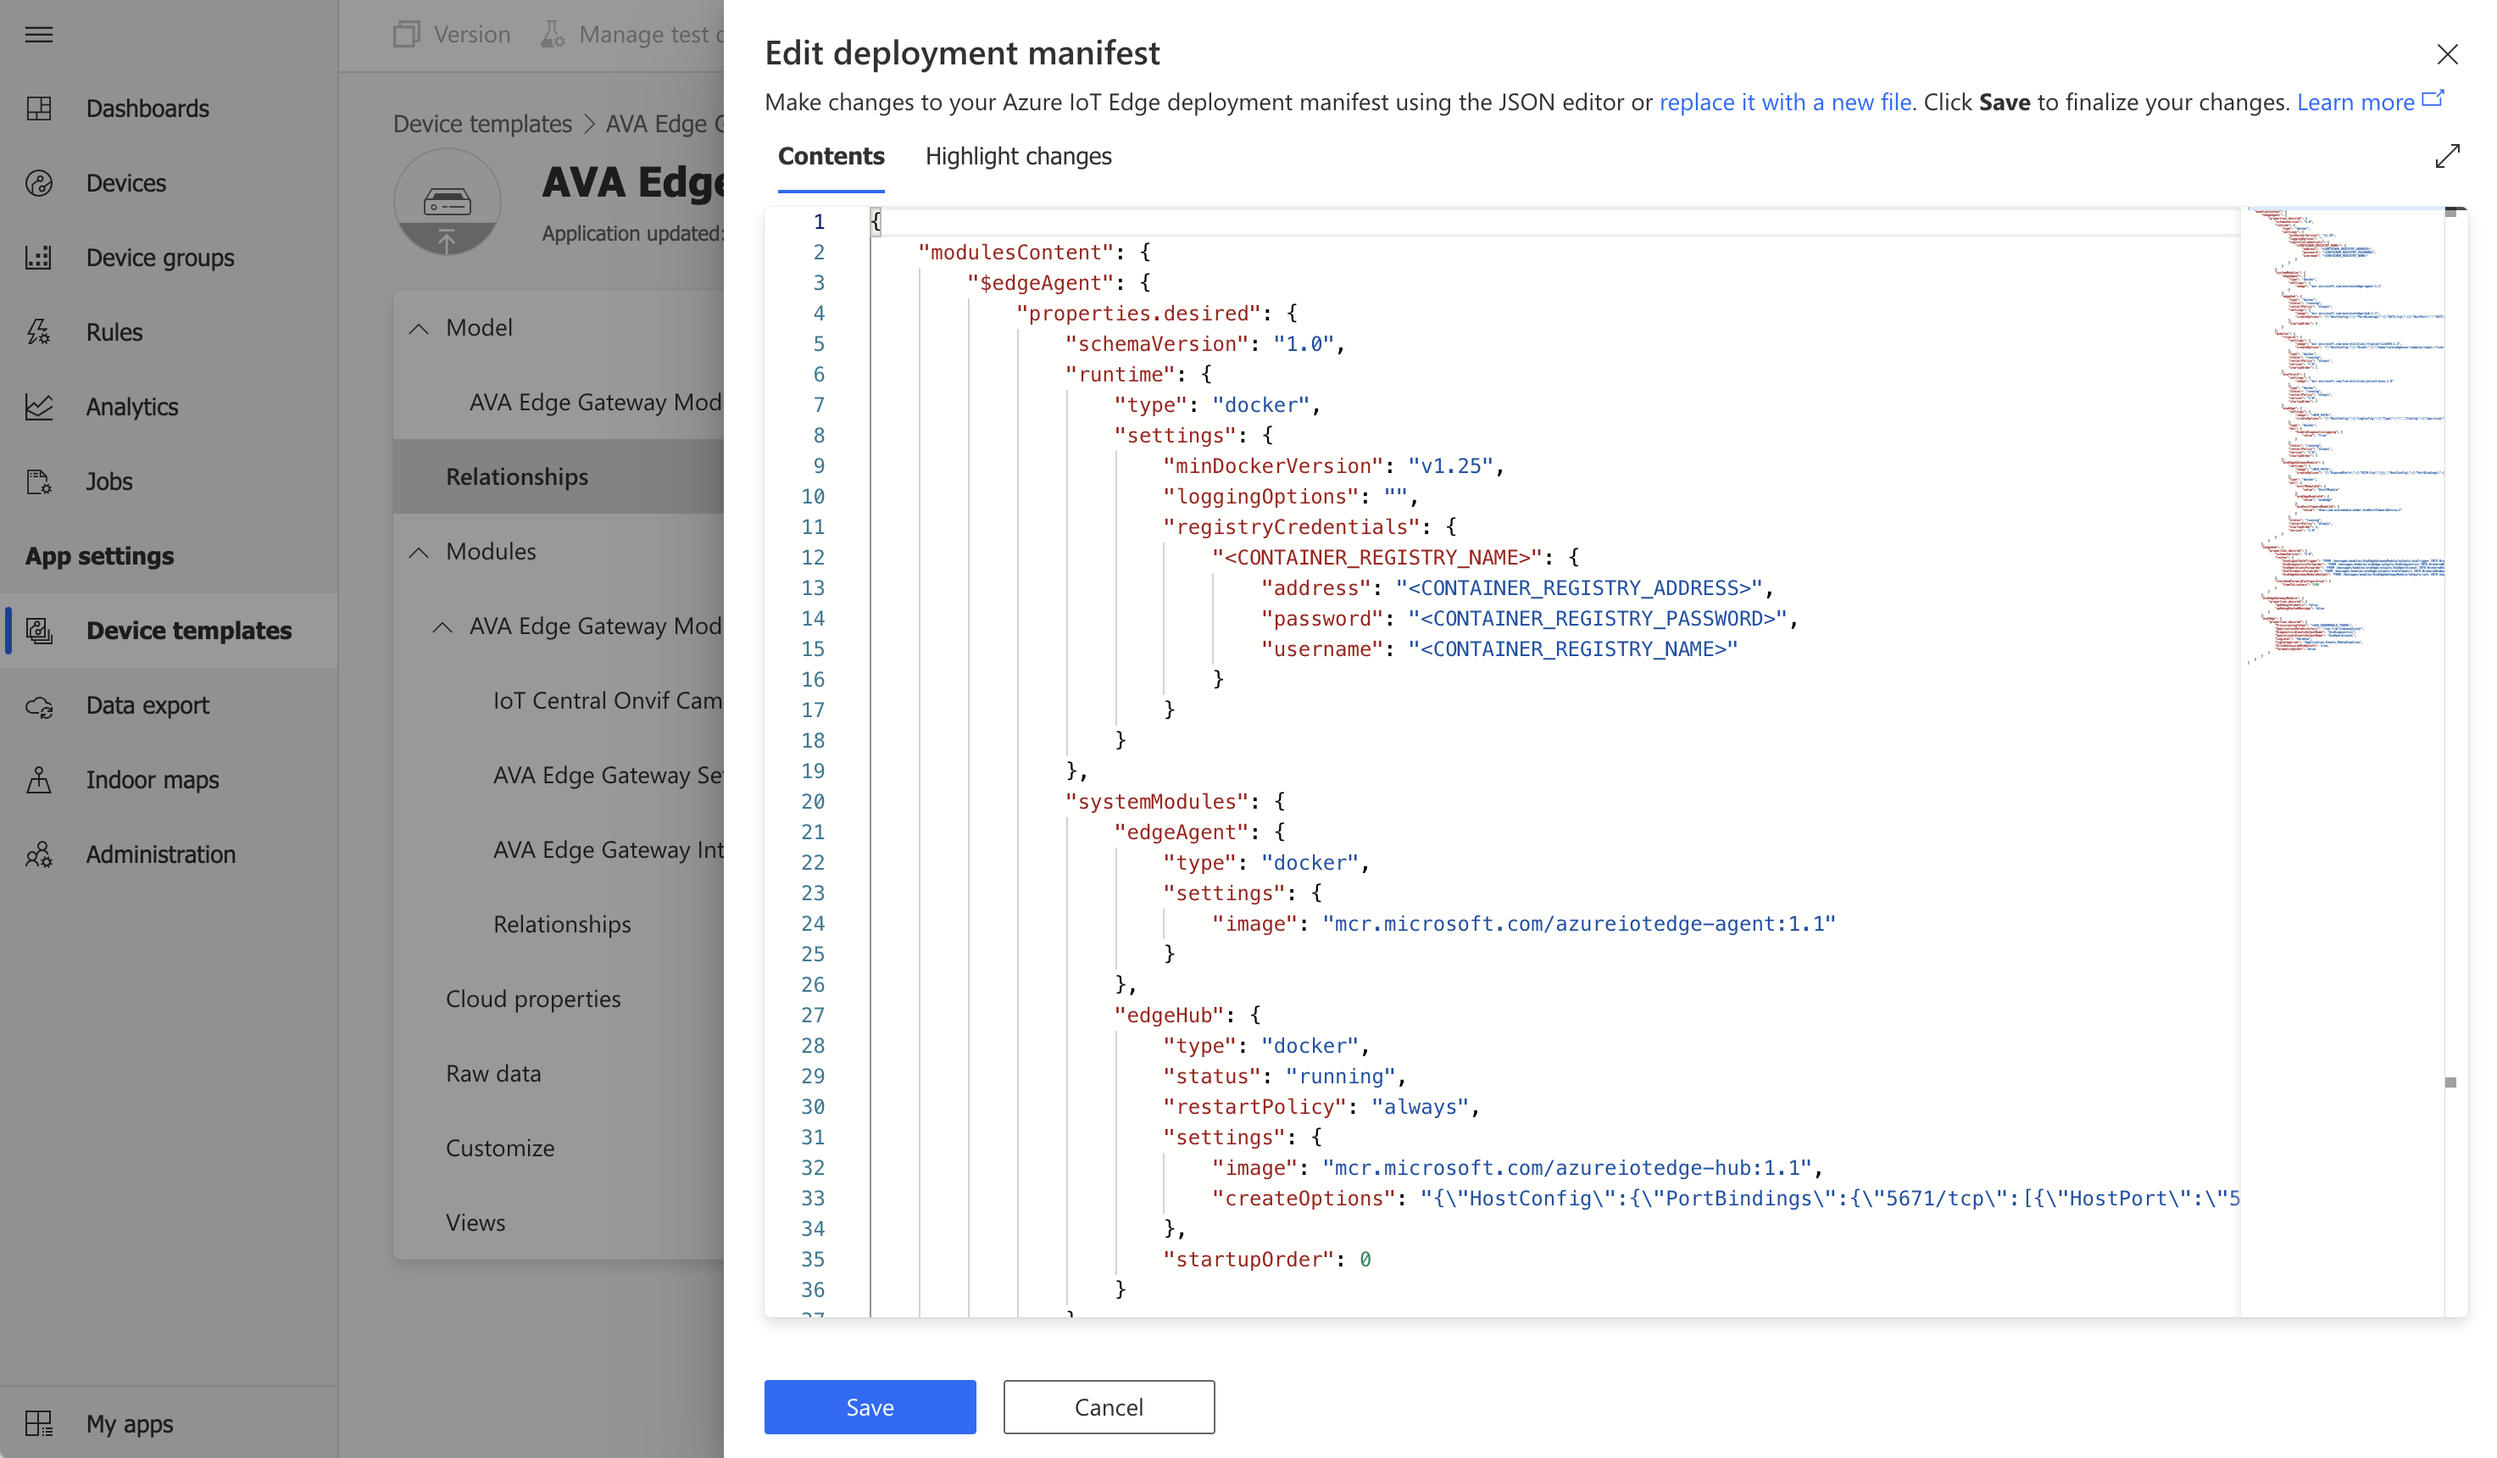
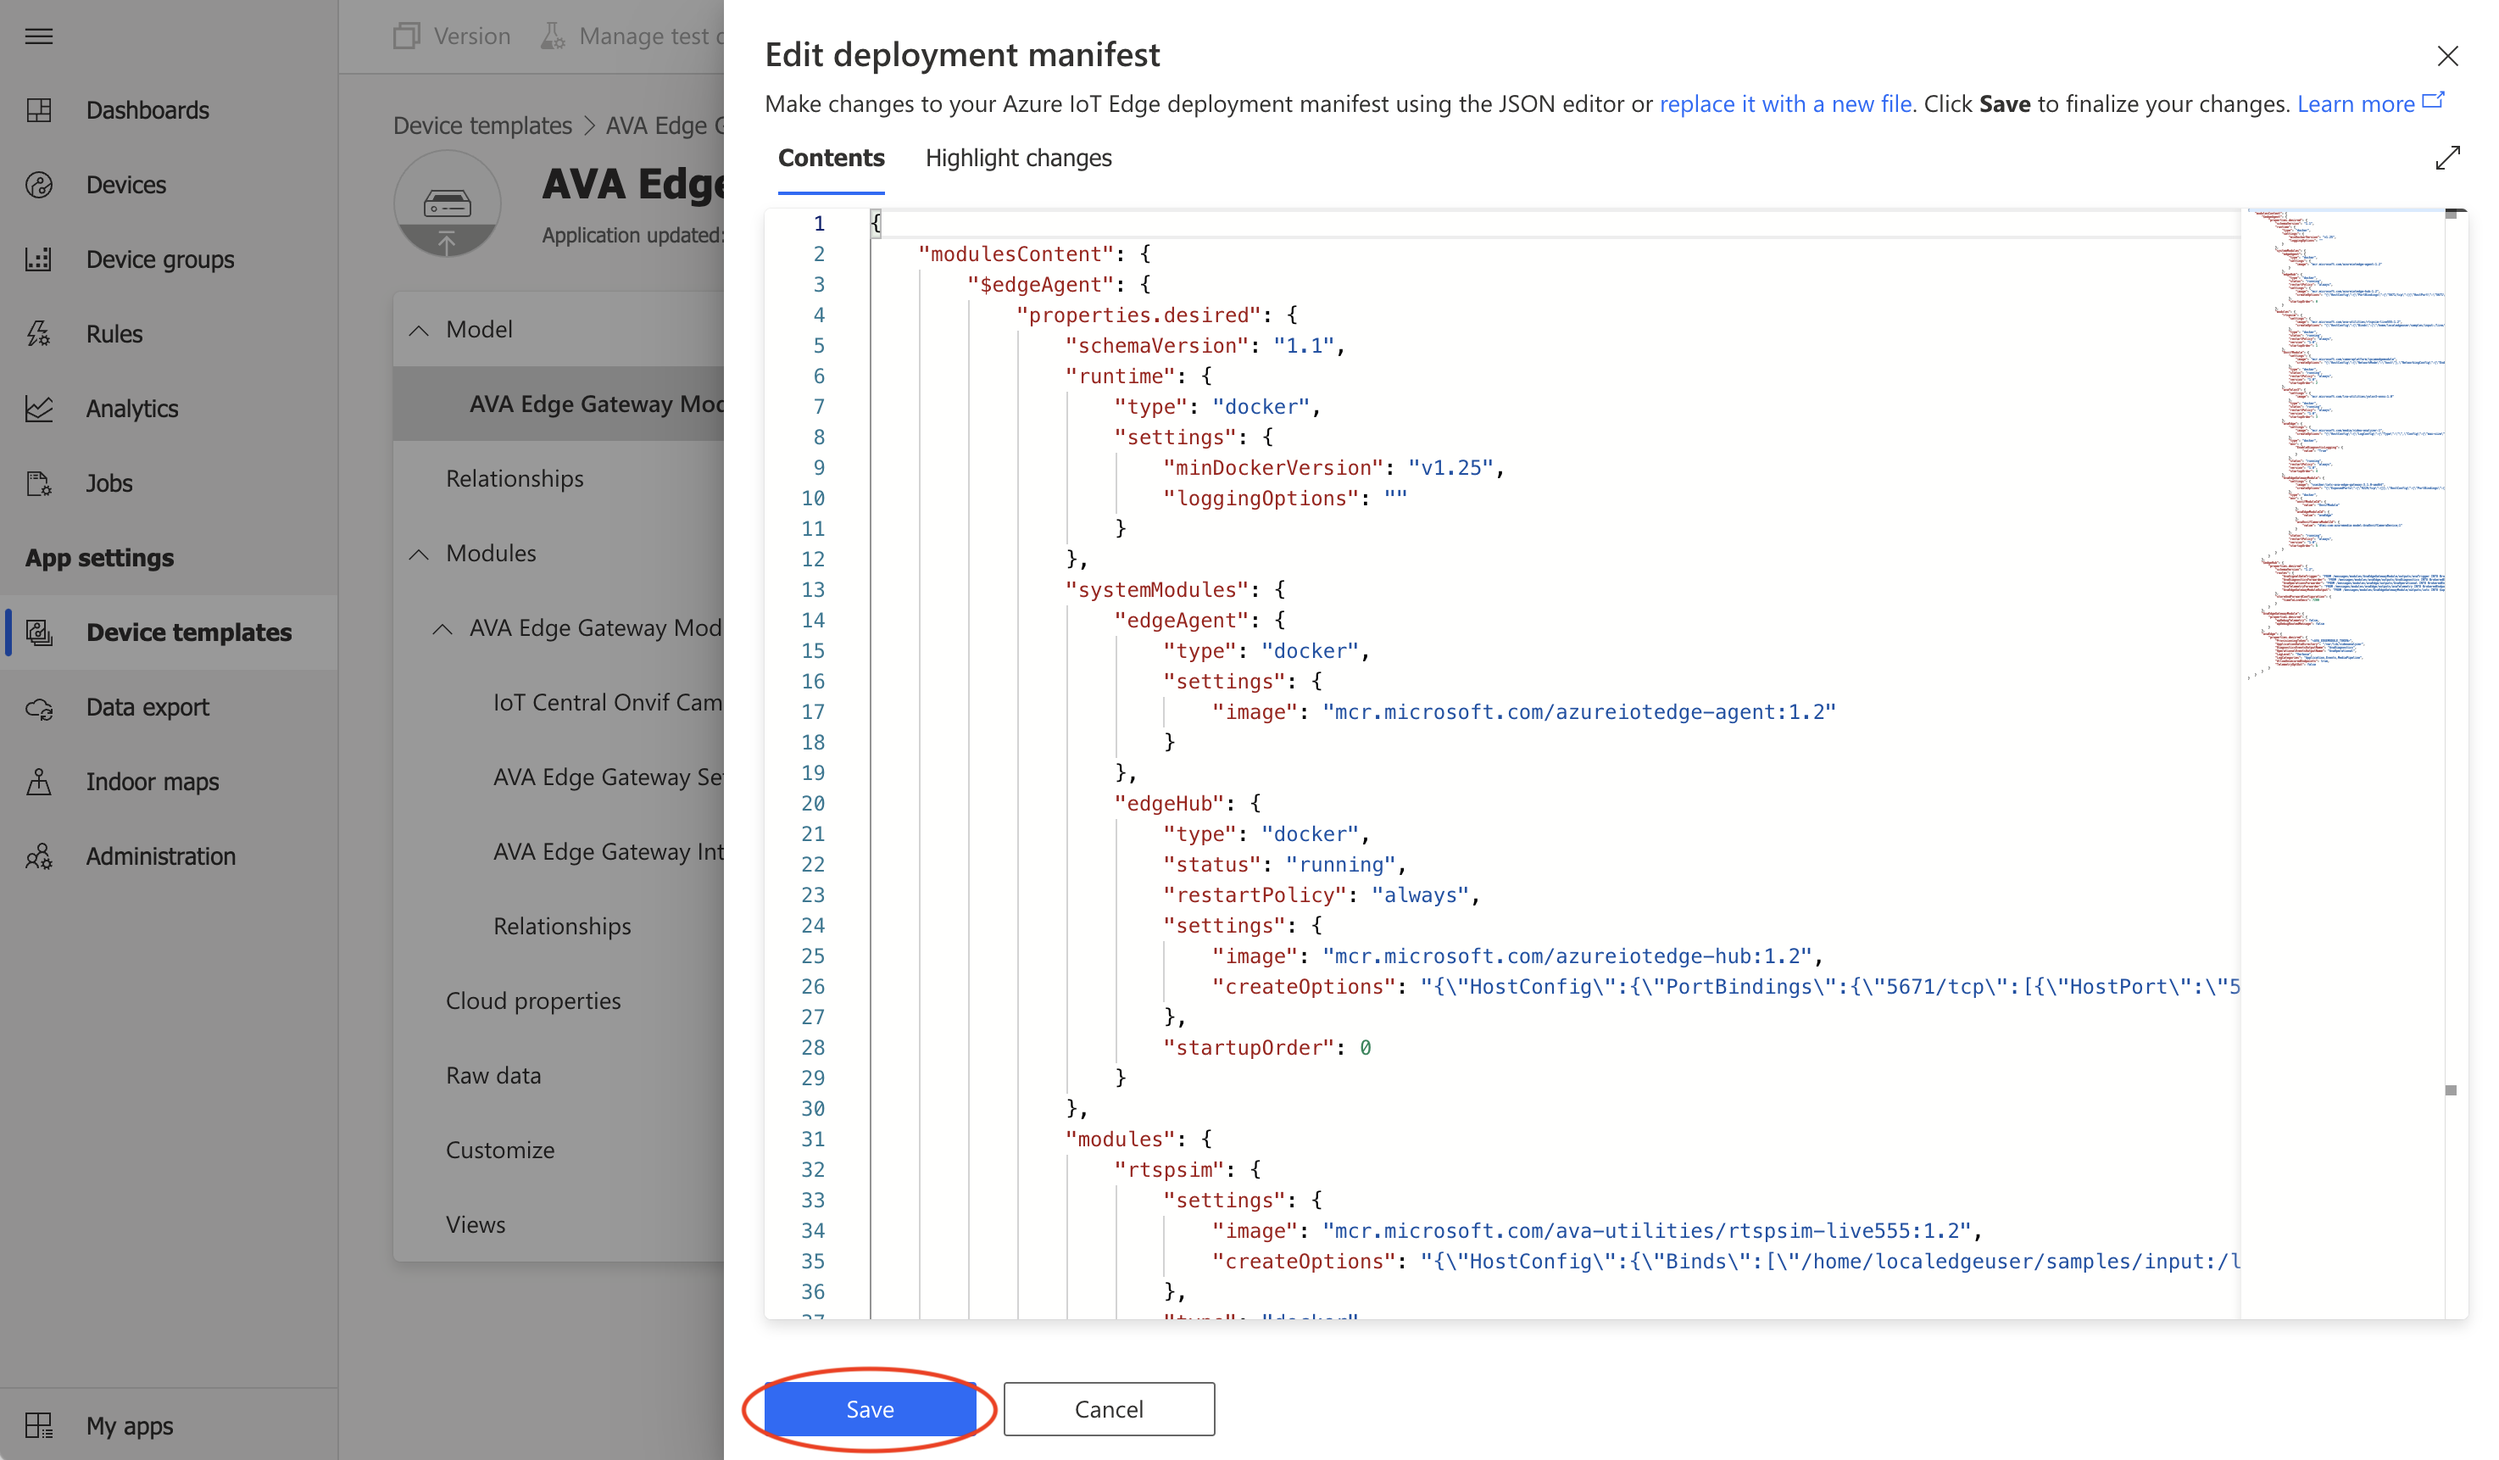
README

diff --git a/README.md b/README.md
@@ -25,15 +25,15 @@ In order for the IoT Edge module to access the APIs necessary to provision and r
 
 #### App Host Uri
 When you create your IoT Central application you will specify a name. The name combined with the base uri will be your App Host Uri. Copy this value.  
-##### Example:  
-<img src="./media/apphosturi.png" width="40%" alt="App Subdomain" />
+##### Example:
+<img src="./media/apphosturi.png" width="40%" alt="App Host Uri" />
 
 #### Api Token
 In your IoT Central application select Administration from the left pane, then select API tokens. You will see an option at the top of the window to create a new API token. Create a new token using the Operator role. Copy the value of the API token for use later.  
 <img src="./media/apitoken.png" alt="API Token" />
 
 #### Device Key and Scope Id
-Select Administration from the left pane, then select Device connection. Next, select the SAS-IoT-Devices link to reveal the Shared access signature Primary key used to create device provisioning keys. Copy the Primary key and Scope id for use later.  
+Select Administration from the left pane, then select Device connection. Next, select the SAS-IoT-Devices link to reveal the enrollment group Shared access signature Primary key used to create device provisioning keys. Copy the Primary key and Scope id for use later.  
 <img src="./media/deviceconnection.png" alt="Device Connection" />
 <img src="./media/devicekeyscopeid.png" alt="Device Key" />
 
@@ -86,19 +86,74 @@ Now we need to add a relationship between the gateway and leaf devices that it c
 Name the device relationship and select the device model that we published in the previous steps and then save it:  
 <img src="./media/edgegatewaydevicerelationship.png" alt="Add Relationship" />
 
-Now we are almost ready to publish this template, but first we have to add an edge deployment manifest.
+Now we are almost ready to publish this template, but first we have need to add an edge deployment manifest to our edge gateway model.
 
-## Attach the Edge Deployment Manifest
- * select edit manifest - you should see the manifest display screen [editmanifest.png]
- * select edit or import manifest - navigate to ./setup/deploymentManifests/quickstart [replacemanifest.png]
- * you should now see your manifest displayed [displaymanifest.png]
+### Create the Edge Deployment Manifest
+ * In your cloned project repository folder you should have a `./configs` sub-folder which contains editable copies of the contents of the `./setup` folder. For this guide we will use the deployment manifest located at `./configs/deploymentManifests/deployment.quickstart.amd64.json`. The only value we should need to add to this file is the Azure Video Analytics account Edge Module access token that you saved earlier in this guide. Copy that value to the deployment manifest:  
+ <img src="./media/avaedgemoduletoken.png" alt="AVA Edge Module Token" />
+ * Back in your IoT Central application select edit manifest from where we left off at the AVA Edge Gateway template screen:  
+ <img src="./media/editmanifest.png" alt="Edit Gateway Manifest" />
+ * Select the replace it with a new file option and open deployment template you just edited:  
+ <img src="./media/replacemanifest.png" alt="Replace Gateway Manifest" />
+ * You should see your manifest displayed, including the change to include the Azure Video Analyzer Edge module access token. If everything looks good, select the Save option:  
+ <img src="./media/displaymanifest.png" alt="Display Gateway Manifest" />
+ * Select the Publish option to publish the completed gateway model template:  
+ <img src="./media/publishgatewaymodel.png" alt="Publish Gateway Model" />
+
+ At this point you have completed the steps define a gateway edge device template in IoT Central that includes an IoT Edge deployment manifest. This deployment manifest defines which modules the IoT Edge runtime should download onto the edge device, including where to get the modules and how the modules route messages between them and ultimately up to the cloud IoT Hub instance managed inside IoT Central.
+
+ The next step will be to create an IoT Edge device that is configured to register itself with our IoT Central application. Once that is done, the deployment manifest will begin downloading the modules to the edge device and the entire solution will begin operating.
 
 ## Create an IoT Edge Device
- * Install the latest version 1.2
- * Configure the config.toml file "DPS provisioning with symmetric key" section. Provide the values for:
-   * id_scope
-   * registration_id (the device id in IoT Central)
-   * symmetric_key
+The full documentation describing how to install Azure IoT Edge on a device can be found at [Install or uninstall Azure IoT Edge for Linux](https://docs.microsoft.com/en-us/azure/iot-edge/how-to-install-iot-edge?view=iotedge-2020-11). This documentation is specific to the Linux operating system but the Azure IoT Edge documentation online has instructions for other operating systems as well as the caveats regarding version and feature support on each operating system. For the purposes of this guide we will assume an AMD64/x64 device running the Linux Ubuntu version 20.x operating system. See the specific [instructions on how to install the Ubuntu operation system](https://ubuntu.com/tutorials/install-ubuntu-desktop#1-overview) on hardware that you would like to use as your Azure IoT Edge device.
+
+> NOTE: In the Azure Video Analytics quickstart linked at the beginning of this guide you created an Azure VM with the Azure IoT Edge runtime installed on it. Feel free to use that Virtual Machine resource; however, you will need to first [upgrade the Azure IoT Edge runtime to version 1.2](https://docs.microsoft.com/en-us/azure/iot-edge/how-to-update-iot-edge?view=iotedge-2020-11&tabs=linux).
+
+### In your IoT Central app create a new gateway device
+Select Devices in the left pane, then select the AVA Edge Gateway model to the right, then select New at the top of the window:  
+<img src="./media/newgatewaydevice.png" alt="Add New Gateway Device" />
+
+Give the new device a name and device id, then select the Create button at the bottom of the window:  
+<img src="./media/createnewgatewaydevice.png" width="50%" alt="Create New Gateway Device" />
+
+By creating a new device using the AVA Edge Gateway model this device instance will take on all of the capability of the model definition, including specifically the edge deployment manifest that we included earlier. You should see the new device in your device list:  
+<img src="./media/gatewaydeviceregistered.png" alt="Registered Gateway Device" />
+
+Notice that the Device statis is currently set to **Registered**. This means that the device is configured in the cloud. Specifically, it is registered in the Device enrollment group for edge devices managed by IoT Central. This scenario is what is called "cloud first provisioning".
+
+Select the gateway device to view its details screen, then select the Connect option at the top of the window:  
+<img src="./media/gatewaydeviceconnect.png" alt="Gateway Device Connect" />
+
+This will display the device connection information. We will need to gather three pieces of information to use to provision the IoT Edge device as this cloud created device:  
+  1. ID scope (to be used as id_scope in the IoT Edge configuration)
+  1. Device ID (to be used as registration_id in the IoT Edge configuration)
+  1. Primary key (to be used as symmetric_key in the IoT Edge configuration)
+
+Copy these values to be used in the next section:  
+<img src="./media/gatewaydeviceconnection.png" width="50%" alt="Gateway Device Connection Information" />
+
+### Provision the IoT Edge device with its cloud identity
+In the instructions to install Azure IoT Edge above go to the section [Option 1: Authenticate with symmetric keys](https://docs.microsoft.com/en-us/azure/iot-edge/how-to-install-iot-edge?view=iotedge-2020-11#option-1-authenticate-with-symmetric-keys). The instructions there ask you to update the **Manual provisioning with connection string** section in the `config.toml` file. Instead we will edit the **DPS provisioning with symmetric key** section. Uncomment that section so it looks like this:
+```
+## DPS provisioning with symmetric key
+[provisioning]
+source = "dps"
+global_endpoint = "https://global.azure-devices-provisioning.net/"
+id_scope = "0ab1234C5D6"
+
+[provisioning.attestation]
+method = "symmetric_key"
+registration_id = "my-device"
+
[1 lines of base64/hex data omitted]
+# symmetric_key = { uri = "file:///var/secrets/device-id.key" }                                                          # file URI, or...
+# symmetric_key = { uri = "pkcs11:slot-id=0;object=device%20id?pin-value=1234" }                                         # PKCS#11 URI
+```
+Update the configuration information with the values you copied above. Continue with the instructions in the IoT Edge Documentation to apply your changes and verify successful configuration.
+
+After successfully configuring your IoT Edge device it will use the configuration to provision IoT Edge device as the device we created in IoT Central (e.g. ava-edge-gateway). To verify this you should notice that the device status in IoT Central changes from Registered to Provisioned:  
+<img src="./media/gatewaydeviceprovisioned.png" alt="Registered Gateway Provisioned" />
+
 
 ## Prerequisites
 * An Azure account that includes an active subscription.[Create an account for free](https://azure.microsoft.com/free/?WT.mc_id=A261C142F) if you don't already have one.
@@ -116,13 +171,13 @@ Now we are almost ready to publish this template, but first we have to add an ed
     git clone https://github.com/tbd
     ```
 
-1. Run the install command in the cloned directory. This command installs the required packages and runs the setup scripts.
+1. Run the install command in the cloned local folder. This command installs the required packages and runs the setup scripts.
    ```
    npm install
    ```
    As part of npm install a postInstall script is run to setup your development environment. This includes  
-   * Creating a `./configs` directory to store your working files. This directory is configured to be ignored by Git so as to prevent you accidentally checking in any confidential secrets.
-   * The `./configs` directory will include your working files:
+   * Creating a `./configs` folder to store your working files. This folder is configured to be ignored by Git so as to prevent you accidentally checking in any confidential secrets.
+   * The `./configs` folder will include your working files:
      * `imageConfig.json` - defines the docker container image name
      * `./mediaPipelines` - a folder containing the media pipeline files that you can edit. If you have any instance variables you would set them here in the `objectPipelineInstance.json` or the `motionPipelineInstance.json` file.
      * `./deploymentManifests` - a folder containing the Edge deployment manifest files for various cpu architectures and deployment configurations.
@@ -153,7 +208,10 @@ Now we are almost ready to publish this template, but first we have to add an ed
     ```
 ## Developer Notes
 You can build and push debug versions of the container by passing the debug flag to the build scripts  
-example: `npm run dockerbuild -- -d`
+##### Example:
+```
+npm run dockerbuild -- -d
+```
 
 This repository is open to freely copy and uses as you see fit. It is intended to provide a reference for a developer to use as a base and which can lead to a specific solution.
 
